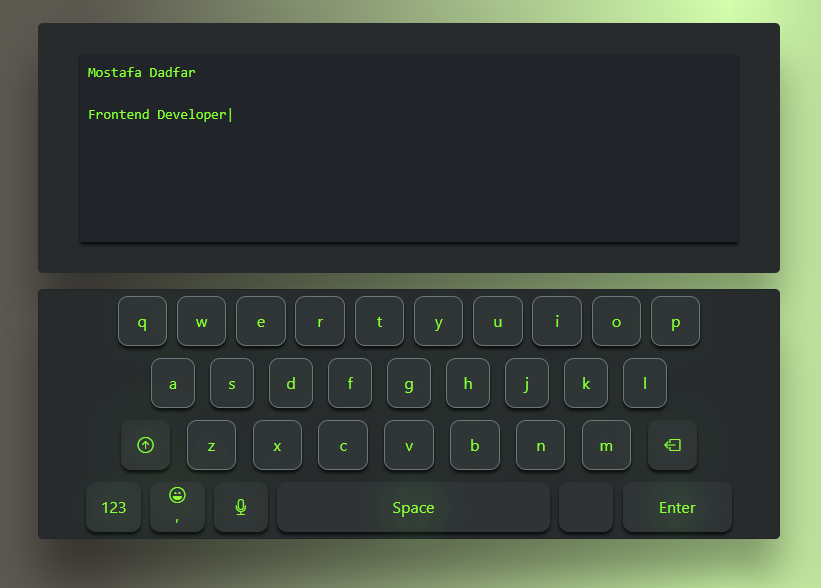
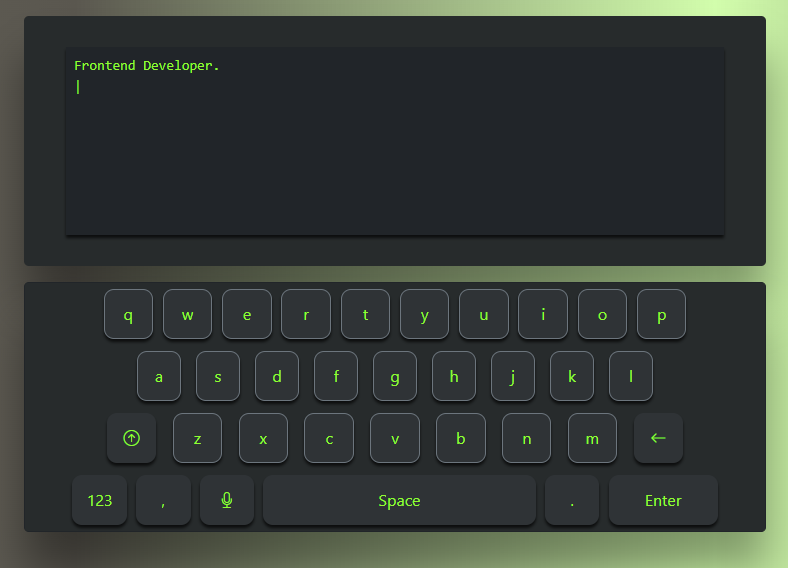
change image & remove emoji

diff --git a/index.html b/index.html
@@ -110,15 +110,13 @@
                         <div class="col-12 col-md-11">
                             <div class="row px-0 mx-0 justify-content-around">
                                 <div class="col-1 d-flex justify-content-center align-items-center btn-keyboard">123</div>
-                                <div class="col-1 btn-keyboard btn d-flex flex-column justify-content-center align-items-center"><i
-                                    class="bi bi-emoji-laughing blur-color d-flex w-100 h-100 justify-content-center align-items-center"></i>
-                              <span>,</span></div>
+                                <div data-low="," data-up="," class="col-1 btn-keyboard btn d-flex flex-column justify-content-center align-items-center">,</div>
 
                                 <div class="col-1 d-flex justify-content-center align-items-center btn-keyboard"><i
                                         class="bi bi-mic "></i></div>
                                 <div id="btnSpace" class="col-5 d-flex justify-content-center align-items-center btn-keyboard">
                                     Space</div>
-                                <div class="col-1 btn-keyboard btn d-flex justify-content-center align-items-center">.</div>
+                                <div data-low="." data-up="." class="col-1 btn-keyboard btn d-flex justify-content-center align-items-center">.</div>
                                 
                                 <div id="btnRtrn" class="col-2 d-flex justify-content-center align-items-center btn-keyboard">
                                     Enter</div>
